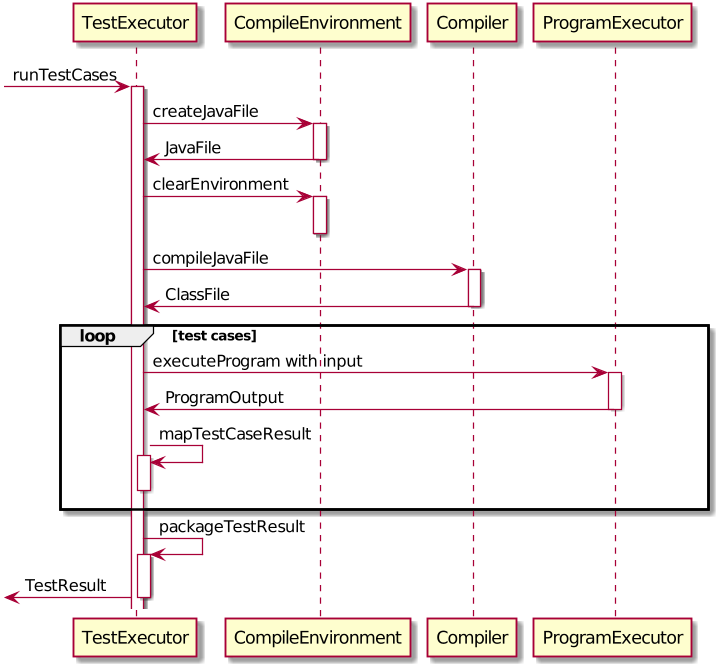
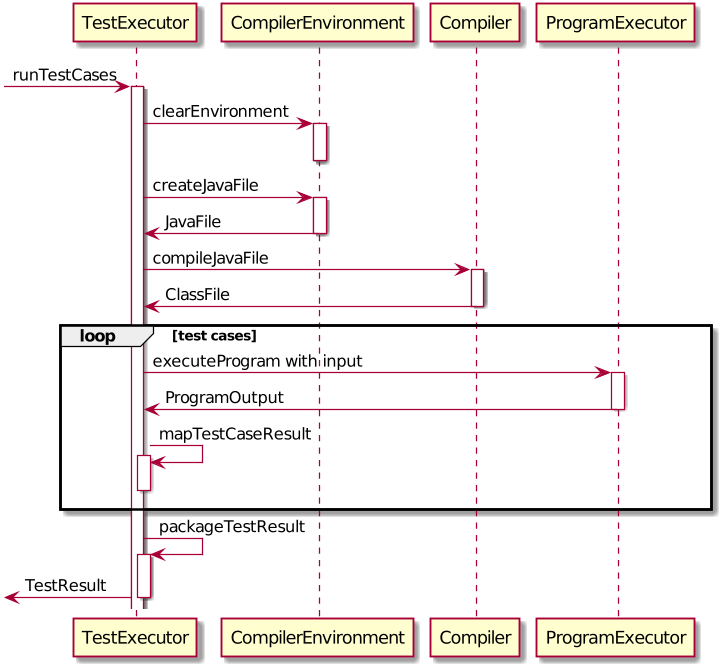
Rebuild pages at 48037dd4332f98ddced4efbc3827b02ce7477a27

diff --git a/DeveloperGuide.html b/DeveloperGuide.html
@@ -756,6 +756,31 @@ an <code>FileNotFoundException</code> is thrown during instantiation.</p>
 <div class="paragraph">
 <p><strong>Sequence diagram:</strong></p>
 </div>
+<div class="olist arabic">
+<ol class="arabic">
+<li>
+<p><code>TestExecutor</code> calls <code>clearEnvironment()</code> of <code>CompilerEnvironment</code> to remove any redundant files from previous program
+evaluations.</p>
+</li>
+<li>
+<p><code>TestExecutor</code> calls <code>createJavaFile()</code> of <code>CompilerEnvironment</code> to create the Java file with the class name and source code specified
+in the <code>UserProgram</code> argument.</p>
+</li>
+<li>
+<p><code>TestExecutor</code> calls <code>compileJavaFile()</code> of <code>Compiler</code> to compile the newly created Java file.</p>
+</li>
+<li>
+<p>For each test case passed in the argument, <code>TestExecutor</code> calls <code>executeProgram</code> of <code>StandardProgramExecutor</code> with the input from the
+test case.</p>
+</li>
+<li>
+<p><code>TestExecutor</code> maps each <code>ProgramOutput</code> received into a <code>TestCaseResult</code> model instance.</p>
+</li>
+<li>
+<p><code>TestExecutor</code> packs all the data collected from the execution of the test cases into a single <code>TestResult</code> instance.</p>
+</li>
+</ol>
+</div>
 <div class="imageblock">
 <div class="content">
 <img src="images/TestExecutorSequenceDiagram.png" alt="align:center">
@@ -1613,4 +1638,4 @@ Expected: Similar to previous.</p>
 </div>
 </div>
 </div>
-</div></div><div id="footer"><div class="container"><div id="footer-text">Last updated 2019-10-24 15:59:39 UTC</div></div></div></body></html>
+</div></div><div id="footer"><div class="container"><div id="footer-text">Last updated 2019-10-24 18:48:25 UTC</div></div></div></body></html>

diff --git a/Testing.html b/Testing.html
@@ -90,4 +90,4 @@ e.g. <code>seedu.difficulty.logic.LogicManagerTest</code></p>
 <div class="title">Figure 1. <code>Accessibility</code> permission is granted to <code>IntelliJ IDEA</code></div>
 </div>
 </div>
-</div></div><div id="footer"><div class="container"><div id="footer-text">Last updated 2019-10-24 15:59:39 UTC</div></div></div></body></html>
+</div></div><div id="footer"><div class="container"><div id="footer-text">Last updated 2019-10-24 18:48:25 UTC</div></div></div></body></html>

diff --git a/team/johndoe.html b/team/johndoe.html
@@ -375,4 +375,4 @@ If the <code>currentStatePointer</code> is at index <code>addressBookStateList.s
 <p><em>{Optionally, you may include other projects in your portfolio.}</em></p>
 </div>
 </div>
-</div></div><div id="footer"><div class="container"><div id="footer-text">Last updated 2019-10-24 15:59:39 UTC</div></div></div></body></html>
+</div></div><div id="footer"><div class="container"><div id="footer-text">Last updated 2019-10-24 18:48:25 UTC</div></div></div></body></html>

diff --git a/ContactUs.html b/ContactUs.html
@@ -12,4 +12,4 @@
 <p><strong>Email us</strong> : You can also reach us through Lim Haw Jia, our Head of User Experience, at <code>hawjia.lim@u.nus.edu</code></p>
 </li>
 </ul>
-</div></div><div id="footer"><div class="container"><div id="footer-text">Last updated 2019-10-24 15:59:39 UTC</div></div></div></body></html>
+</div></div><div id="footer"><div class="container"><div id="footer-text">Last updated 2019-10-24 18:48:25 UTC</div></div></div></body></html>

diff --git a/LearningOutcomes.html b/LearningOutcomes.html
@@ -474,4 +474,4 @@ of storages, but different number of storages (e.g. save to both a text file and
 </div>
 </div>
 </div>
-</div></div><div id="footer"><div class="container"><div id="footer-text">Last updated 2019-10-24 15:59:39 UTC</div></div></div></body></html>
+</div></div><div id="footer"><div class="container"><div id="footer-text">Last updated 2019-10-24 18:48:25 UTC</div></div></div></body></html>

diff --git a/SettingUp.html b/SettingUp.html
@@ -180,4 +180,4 @@ Having both Travis and AppVeyor ensures your App works on both Unix-based platfo
 </div>
 </div>
 </div>
-</div></div><div id="footer"><div class="container"><div id="footer-text">Last updated 2019-10-24 15:59:39 UTC</div></div></div></body></html>
+</div></div><div id="footer"><div class="container"><div id="footer-text">Last updated 2019-10-24 18:48:25 UTC</div></div></div></body></html>

diff --git a/UserGuide.html b/UserGuide.html
@@ -757,4 +757,4 @@ level, solution, algorithm category. Check out  default_problem_set.txt fo
 </div>
 </div>
 </div>
-</div></div><div id="footer"><div class="container"><div id="footer-text">Last updated 2019-10-24 15:59:39 UTC</div></div></div></body></html>
+</div></div><div id="footer"><div class="container"><div id="footer-text">Last updated 2019-10-24 18:48:25 UTC</div></div></div></body></html>

diff --git a/UsingCoveralls.html b/UsingCoveralls.html
@@ -111,4 +111,4 @@ If you have not set up Travis CI, see <a href="UsingTravis.html">UsingTravis.ado
 </ol>
 </div>
 </div>
-</div></div><div id="footer"><div class="container"><div id="footer-text">Last updated 2019-10-24 15:59:39 UTC</div></div></div></body></html>
+</div></div><div id="footer"><div class="container"><div id="footer-text">Last updated 2019-10-24 18:48:25 UTC</div></div></div></body></html>

diff --git a/UsingGradle.html b/UsingGradle.html
@@ -228,4 +228,4 @@ See <code>build.gradle</code> &#8594; <code>allprojects</code> &#8594; <code>dep
 </ul>
 </div>
 </div>
-</div></div><div id="footer"><div class="container"><div id="footer-text">Last updated 2019-10-24 15:59:39 UTC</div></div></div></body></html>
+</div></div><div id="footer"><div class="container"><div id="footer-text">Last updated 2019-10-24 18:48:25 UTC</div></div></div></body></html>

diff --git a/UsingNetlify.html b/UsingNetlify.html
@@ -138,4 +138,4 @@ The publish directory is the directory in which the built HTML documentation res
 </ol>
 </div>
 </div>
-</div></div><div id="footer"><div class="container"><div id="footer-text">Last updated 2019-10-24 15:59:39 UTC</div></div></div></body></html>
+</div></div><div id="footer"><div class="container"><div id="footer-text">Last updated 2019-10-24 18:48:25 UTC</div></div></div></body></html>

diff --git a/Documentation.html b/Documentation.html
@@ -226,4 +226,4 @@ The SE-EDU team does not provide support for modified template files.</p>
 </table>
 </div>
 </div>
-</div></div><div id="footer"><div class="container"><div id="footer-text">Last updated 2019-10-24 15:59:39 UTC</div></div></div></body></html>
+</div></div><div id="footer"><div class="container"><div id="footer-text">Last updated 2019-10-24 18:48:25 UTC</div></div></div></body></html>

diff --git a/UsingTravis.html b/UsingTravis.html
@@ -292,4 +292,4 @@ Suggested change: Remove the codacy badge from <code>README</code>.</p>
 </div>
 </div>
 </div>
-</div></div><div id="footer"><div class="container"><div id="footer-text">Last updated 2019-10-24 15:59:39 UTC</div></div></div></body></html>
+</div></div><div id="footer"><div class="container"><div id="footer-text">Last updated 2019-10-24 18:48:25 UTC</div></div></div></body></html>
